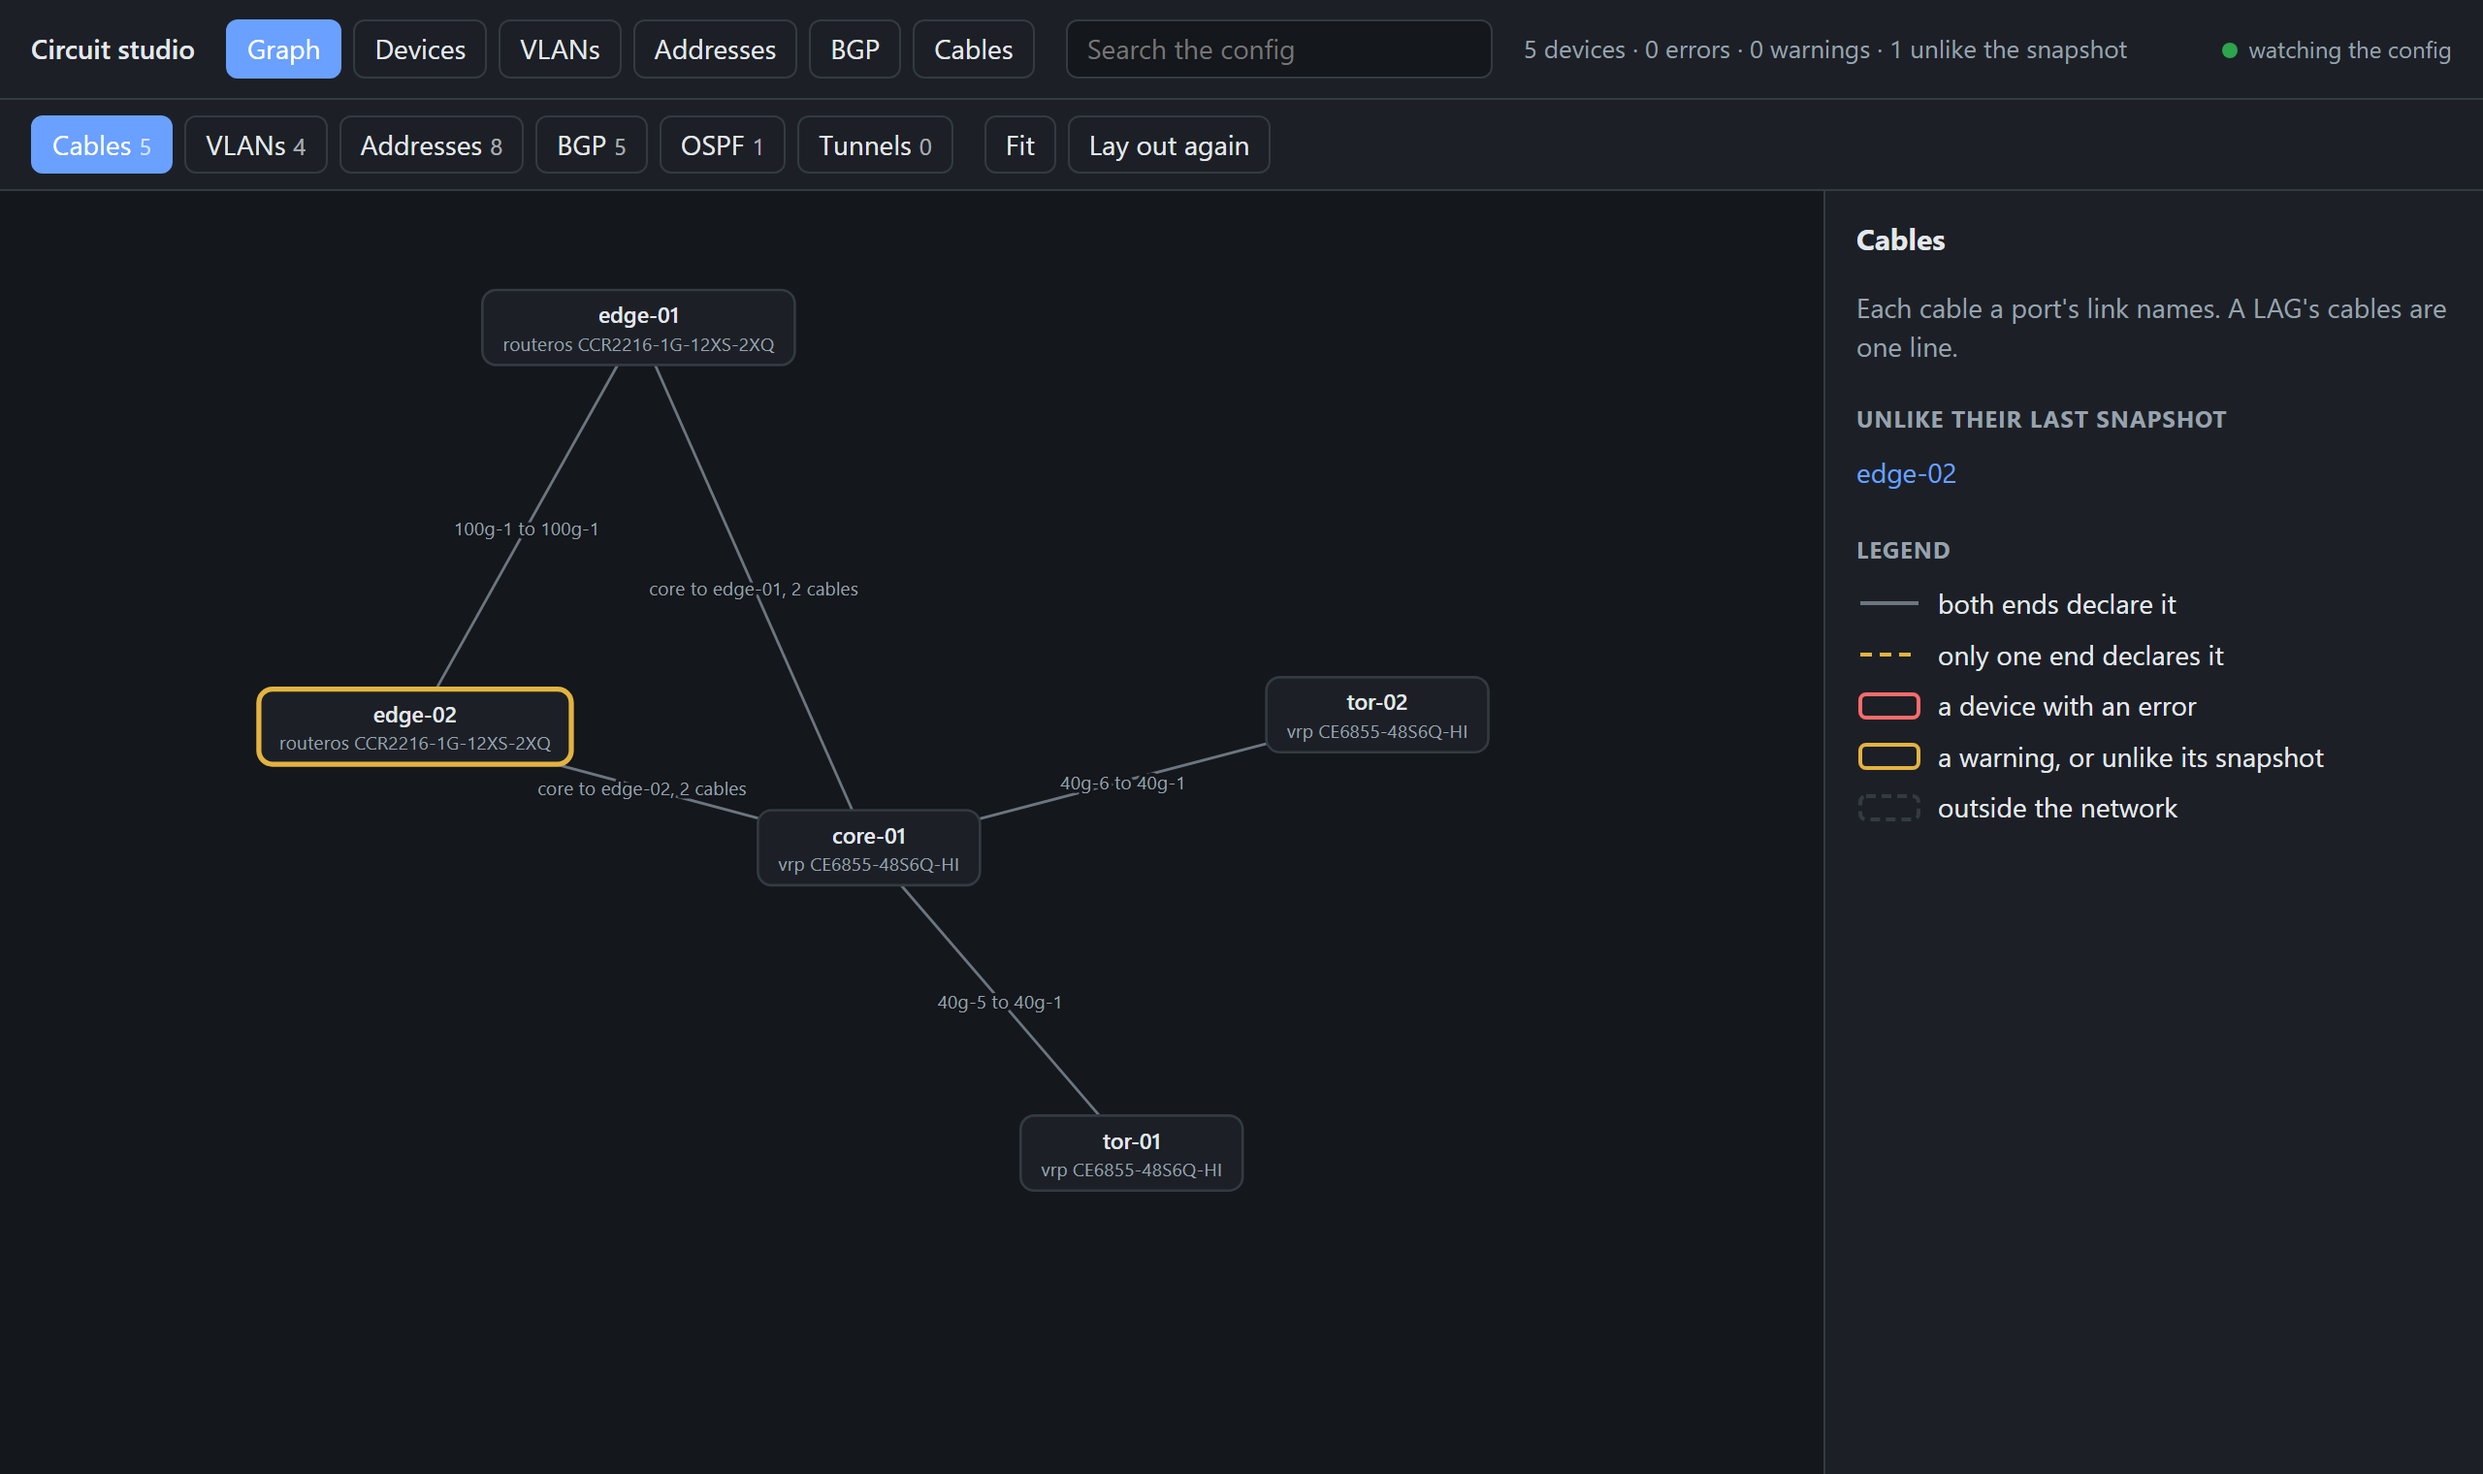
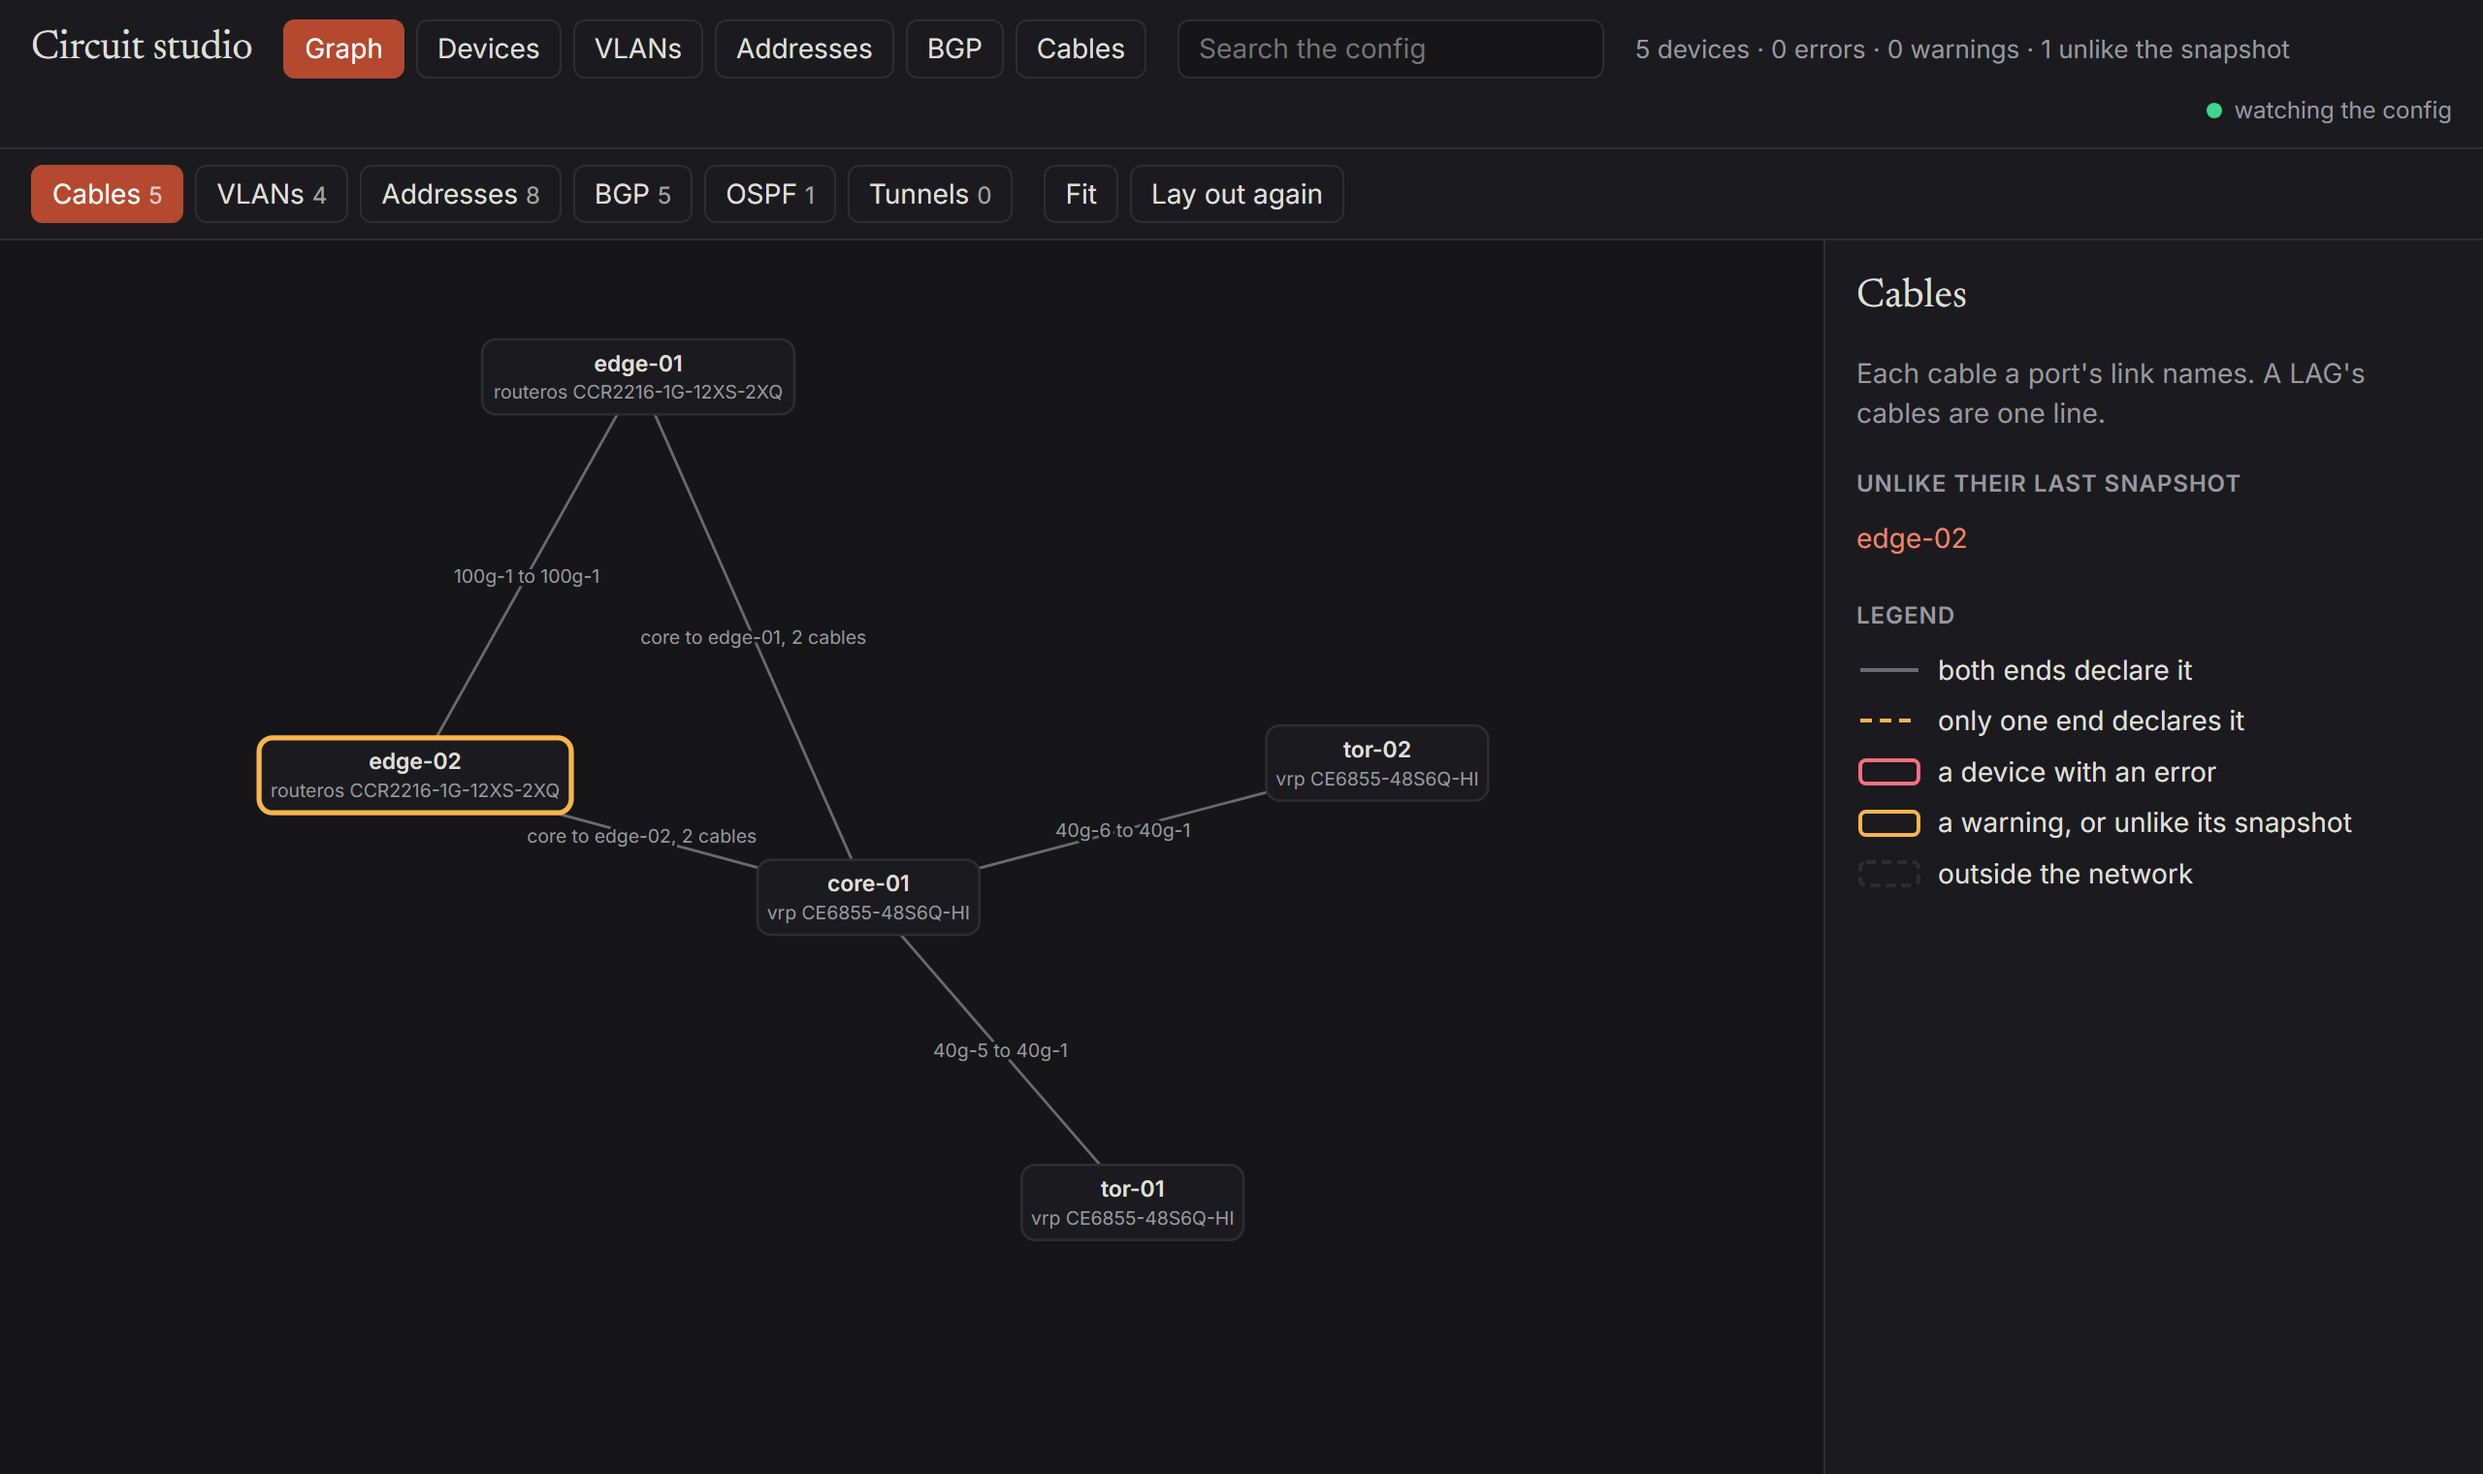
feat(studio): studio looks like the documentation site
Inter for text and Newsreader for headings, loaded as the site loads them and falling back to the system's fonts offline; terracotta for the brand; VitePress's neutrals, reds and yellows, light and dark. The screenshots in the docs and README are taken again.

diff --git a/src/studio/public/style.css b/src/studio/public/style.css
@@ -1,30 +1,40 @@
-/* Circuit studio's look: colors as tokens, redefined for a dark screen, then the page, the tables and the graph. */
+/* Circuit studio's look, the documentation site's own: Inter for text, Newsreader for headings, terracotta for the brand, and VitePress's neutrals. Colors are tokens, redefined for a dark screen; then the page, the tables and the graph. */
 :root {
-    --bg: #f6f7f9;
+    --bg: #f6f6f7;
     --surface: #ffffff;
-    --line: #d7dbe0;
-    --text: #1d2228;
-    --muted: #5d6670;
-    --edge: #8a939c;
-    --accent: #2f6fdb;
-    --error: #d1242f;
-    --warning: #b07800;
-    --segment: #e9eef6;
-    --font: system-ui, -apple-system, "Segoe UI", sans-serif;
-    --mono: ui-monospace, "Cascadia Mono", Menlo, Consolas, monospace;
+    --line: #e2e2e3;
+    --text: #3c3c43;
+    --muted: #67676c;
+    --edge: #929295;
+    --accent: #a8432b;
+    --accent-strong: #b4492f;
+    --on-accent: #ffffff;
+    --error: #b8272c;
+    --error-strong: #b8272c;
+    --warning: #915930;
+    --warning-strong: #9f6a00;
+    --ok: #18794e;
+    --segment: rgba(180, 73, 47, 0.08);
+    --font: "Inter", ui-sans-serif, system-ui, sans-serif, "Apple Color Emoji", "Segoe UI Emoji", "Segoe UI Symbol", "Noto Color Emoji";
+    --serif: "Newsreader", "Iowan Old Style", "Palatino Linotype", Georgia, serif;
+    --mono: ui-monospace, "Menlo", "Monaco", "Consolas", "Liberation Mono", "Courier New", monospace;
 }
 @media (prefers-color-scheme: dark) {
     :root {
-        --bg: #14171b;
-        --surface: #1c2026;
-        --line: #333a42;
-        --text: #e4e8ec;
-        --muted: #98a2ad;
-        --edge: #6c7680;
-        --accent: #6aa0ff;
-        --error: #ff6b6b;
-        --warning: #e3b341;
-        --segment: #232a33;
+        --bg: #161618;
+        --surface: #1b1b1f;
+        --line: #2e2e32;
+        --text: #dfdfd6;
+        --muted: #98989f;
+        --edge: #6a6a71;
+        --accent: #e8866b;
+        --accent-strong: #b4492f;
+        --error: #f66f81;
+        --error-strong: #b62a3c;
+        --warning: #f9b44e;
+        --warning-strong: #a46a0a;
+        --ok: #3dd68c;
+        --segment: rgba(232, 134, 107, 0.12);
     }
 }
 * {
@@ -55,9 +65,9 @@ button:hover {
     border-color: var(--accent);
 }
 button[aria-pressed="true"] {
-    background: var(--accent);
-    border-color: var(--accent);
-    color: #fff;
+    background: var(--accent-strong);
+    border-color: var(--accent-strong);
+    color: var(--on-accent);
 }
 header {
     display: flex;
@@ -69,7 +79,10 @@ header {
     border-bottom: 1px solid var(--line);
 }
 header .brand {
-    font-weight: 600;
+    font-family: var(--serif);
+    font-size: 21px;
+    font-weight: 400;
+    letter-spacing: -0.01em;
 }
 nav,
 .actions {
@@ -126,13 +139,13 @@ header .live::before {
     margin-right: 6px;
 }
 header .live.on::before {
-    background: #2da44e;
+    background: var(--ok);
 }
 .banner {
     margin: 0;
     padding: 10px 16px;
-    background: var(--error);
-    color: #fff;
+    background: var(--error-strong);
+    color: var(--on-accent);
     white-space: pre-wrap;
     font: 12px/1.4 var(--mono);
     max-height: 30vh;
@@ -173,7 +186,11 @@ main {
     padding: 16px 24px 48px;
 }
 .tables h2 {
-    font-size: 20px;
+    font-family: var(--serif);
+    font-size: 30px;
+    font-weight: 400;
+    letter-spacing: -0.01em;
+    line-height: 1.25;
     margin: 4px 0 8px;
     display: flex;
     align-items: center;
@@ -285,7 +302,9 @@ aside {
     border-left: 1px solid var(--line);
 }
 aside h2 {
-    font-size: 15px;
+    font-family: var(--serif);
+    font-size: 21px;
+    font-weight: 400;
     margin: 0 0 4px;
     overflow-wrap: anywhere;
 }
@@ -325,13 +344,14 @@ aside pre {
     padding: 0 6px;
     border-radius: 4px;
     margin-right: 6px;
-    color: #fff;
+    color: var(--on-accent);
+    font-family: var(--font);
 }
 .badge.error {
-    background: var(--error);
+    background: var(--error-strong);
 }
 .badge.warning {
-    background: var(--warning);
+    background: var(--warning-strong);
 }
 .chips {
     display: flex;

diff --git a/src/studio/public/index.html b/src/studio/public/index.html
@@ -5,6 +5,13 @@
         <meta charset="utf-8" />
         <meta name="viewport" content="width=device-width, initial-scale=1" />
         <title>Circuit studio</title>
+        <!-- The documentation site's fonts. Offline, the page falls back to the system's. -->
+        <link rel="preconnect" href="https://fonts.googleapis.com" />
+        <link rel="preconnect" href="https://fonts.gstatic.com" crossorigin />
+        <link
+            rel="stylesheet"
+            href="https://fonts.googleapis.com/css2?family=Inter:wght@400;500;600&family=Newsreader:ital,opsz,wght@0,6..72,400;1,6..72,400&display=swap"
+        />
         <link rel="stylesheet" href="style.css" />
         <script type="module" src="app.js"></script>
     </head>
